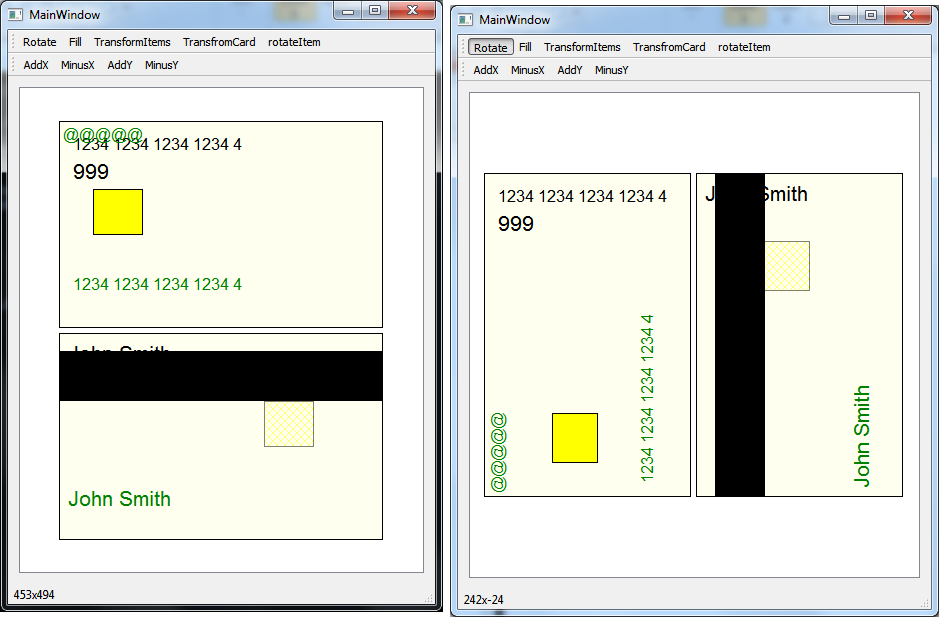
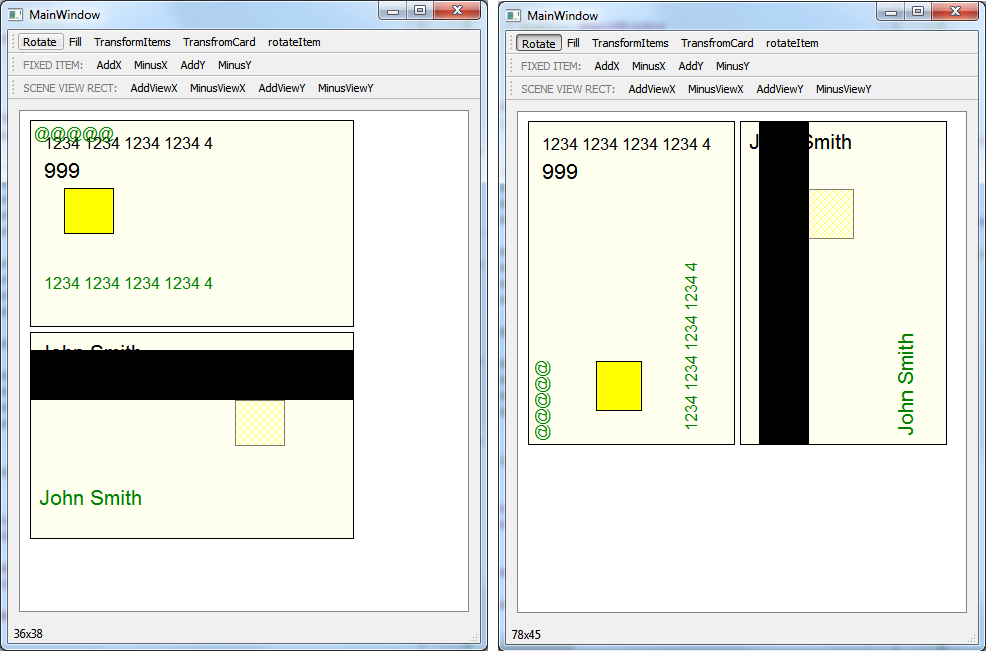
Фиксация карты в левом верхнем углу, которая сохраняется при повороте карты

Changed region(s): [[0.0, 0.0, 1.0, 1.0], [0.8871, 0.5087, 0.9177, 0.778]]

diff --git a/mainwindow.cpp b/mainwindow.cpp
@@ -41,6 +41,12 @@ MainWindow::MainWindow(QWidget *parent) :
     }
 
 
+    ui->graphicsView->setAlignment(Qt::AlignTop | Qt::AlignLeft);
+
+    qreal size = std::max(card->boundingRect().width(), card->boundingRect().height());
+    ui->graphicsView->setSceneRect(QRectF(-10, -10, size, size));
+
+
     on_actionFill_triggered();
 
     resize(700, 700);
@@ -91,6 +97,11 @@ void MainWindow::on_actionRotate_triggered(bool checked)
     needRotate = true;
 
     on_actionFill_triggered();
+
+
+    QPolygonF polygonF = card->mapToScene(card->boundingRect());
+    qreal size = std::max(card->boundingRect().width(), card->boundingRect().height());
+    ui->graphicsView->setSceneRect(QRectF(-10 + polygonF.first().x(), -10 - polygonF.first().x(), size, size));
 }
 
 void MainWindow::on_actionFill_triggered()
@@ -233,4 +244,36 @@ void MainWindow::on_actionRotateItem_triggered(bool checked)
             item->setTransform(transform, true);
         }
     }
+}
+
+void MainWindow::on_actionAddViewX_triggered()
+{
+    QRectF sceneRect = ui->graphicsView->sceneRect();
+    sceneRect.moveRight(sceneRect.right() + 5);
+
+    ui->graphicsView->setSceneRect(sceneRect);
+}
+
+void MainWindow::on_actionMinusViewX_triggered()
+{
+    QRectF sceneRect = ui->graphicsView->sceneRect();
+    sceneRect.moveLeft(sceneRect.left() + 5);
+
+    ui->graphicsView->setSceneRect(sceneRect);
+}
+
+void MainWindow::on_actionAddViewY_triggered()
+{
+    QRectF sceneRect = ui->graphicsView->sceneRect();
+    sceneRect.moveBottom(sceneRect.bottom() + 5);
+
+    ui->graphicsView->setSceneRect(sceneRect);
+}
+
+void MainWindow::on_actionMinusViewY_triggered()
+{
+    QRectF sceneRect = ui->graphicsView->sceneRect();
+    sceneRect.moveTop(sceneRect.top() + 5);
+
+    ui->graphicsView->setSceneRect(sceneRect);
 }

diff --git a/mainwindow.h b/mainwindow.h
@@ -132,6 +132,11 @@ private slots:
 
     void on_actionRotateItem_triggered(bool checked);
 
+    void on_actionAddViewX_triggered();
+    void on_actionMinusViewX_triggered();
+    void on_actionAddViewY_triggered();
+    void on_actionMinusViewY_triggered();
+
 protected:
     bool eventFilter(QObject* obj, QEvent* e);
 
